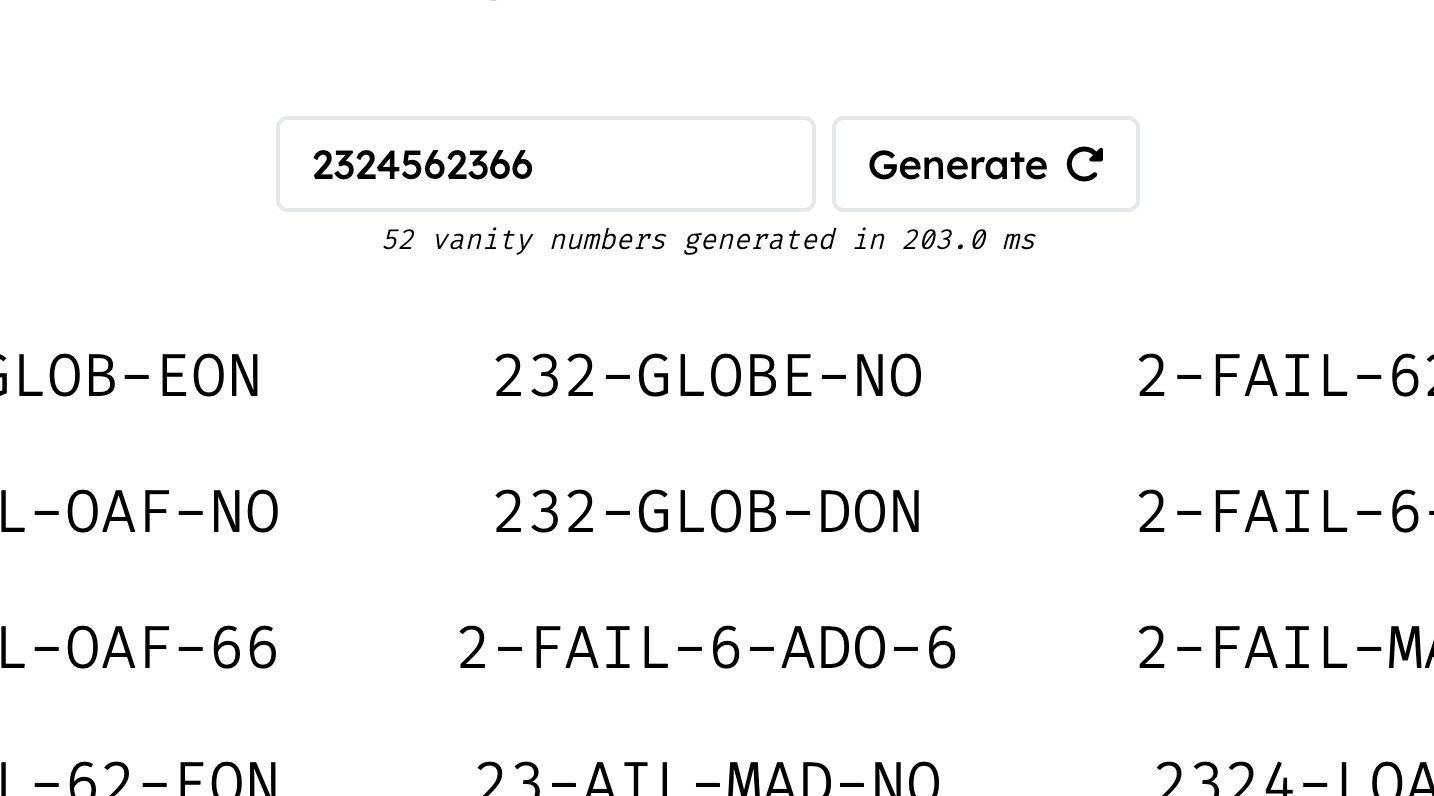
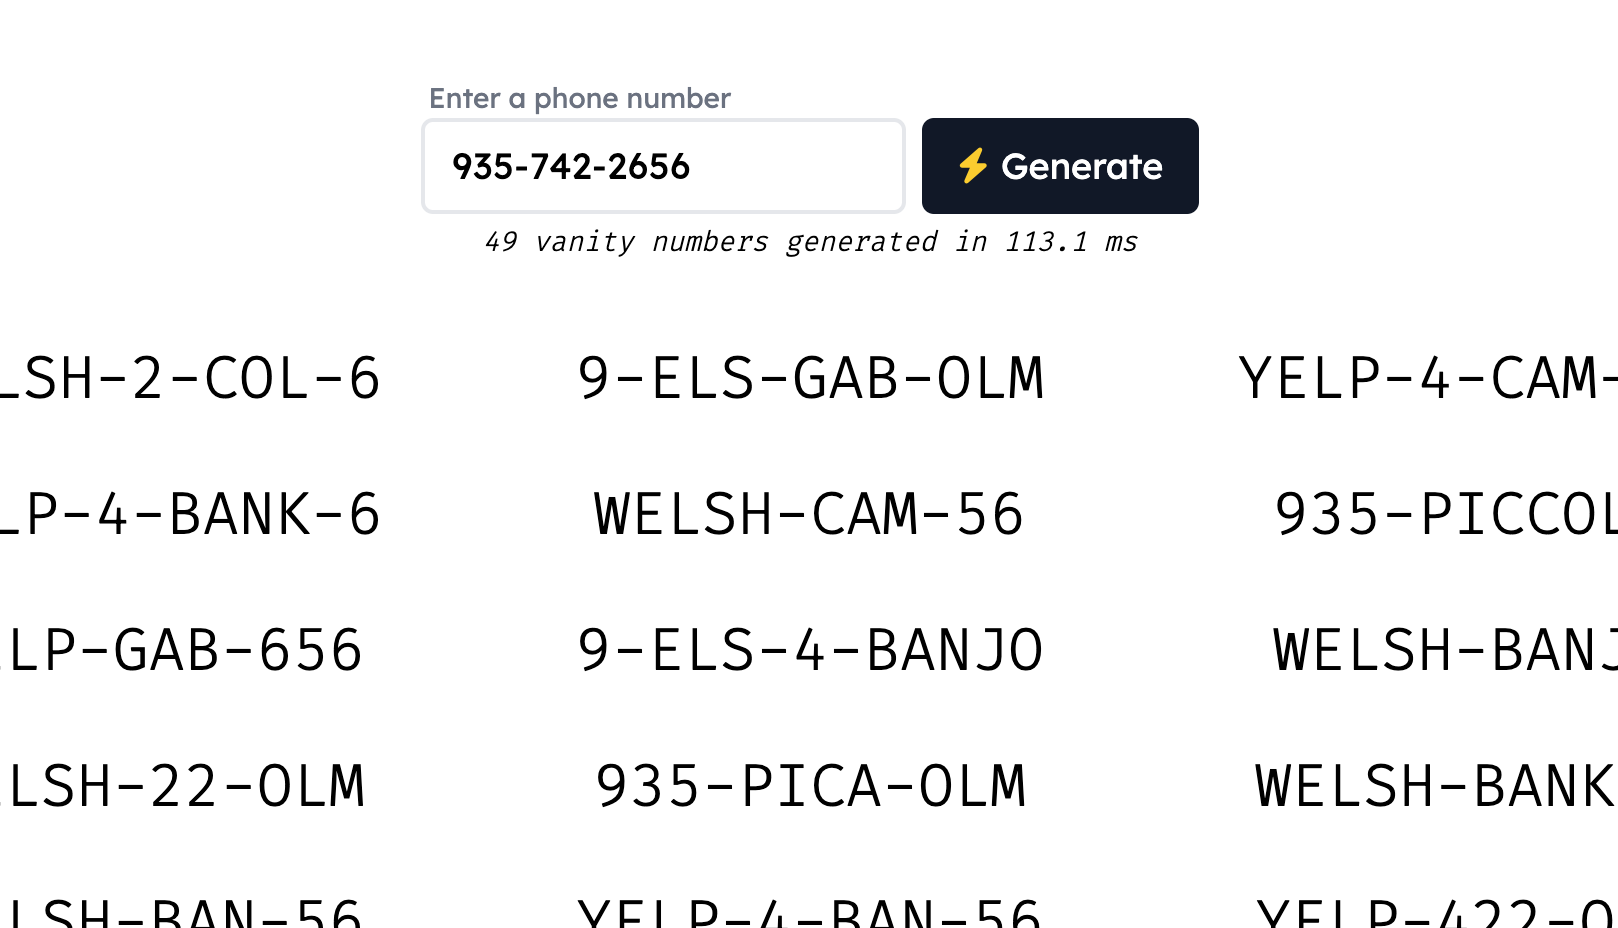
update Cifra screenshots

diff --git a/src/pages/projects/cifra.tsx b/src/pages/projects/cifra.tsx
@@ -61,17 +61,22 @@ export default function Cifra() {
             className="mr-1.5"
             aria-hidden
           />
-          Updated June 2024
+          Updated March 2025
         </h2>
       </div>
 
       <div className="container postImgDiv mx-auto mt-6">
         <ImageCarousel
-          images={["/images/cifra-ss-1.png", "/images/cifra-ss-2.png"]}
+          images={[
+            "/images/cifra-ss-1.png",
+            "/images/cifra-ss-2.png",
+            "/images/cifra-ss-3.png",
+          ]}
           imagePosition="object-top"
           alts={[
-            "Screenshot of Cifra showing the generation of vanity numbers",
-            "Screenshot of Cifra showing starred vanity numbers",
+            "Screenshot of Cifra showing vanity numbers generated from an inputted phone number",
+            "Screenshot of Cifra showing vanity numbers generated from an inputted phone number",
+            "Screenshot of Cifra showing vanity numbers generated from an inputted phone number",
           ]}
         />
       </div>

diff --git a/src/pages/projects/index.tsx b/src/pages/projects/index.tsx
@@ -51,7 +51,7 @@ export default function Projects() {
             name="Cifra"
             desc="Generate vanity numbers from your own phone number to make it unforgettable."
             releaseDate=""
-            updateDate="Jun 2024"
+            updateDate="Mar 2025"
             madeWith="JavaScript"
             logo="https://cifra.jakeo.dev/cifra-logo.png"
             showLogo={true}
@@ -81,7 +81,7 @@ export default function Projects() {
             original files created (html/css/js): may 28 2021
             first uploaded to github: may 21 2022
             switched from jorch.xyz to jakeo.dev: dec 11 2022 */
-            updateDate="Feb 2025"
+            updateDate="Mar 2025"
             madeWith="Next.js"
             logo="https://bunnies.jakeo.dev/images/solid-gradient-blue-gray-bunny.png"
             showLogo={true}
